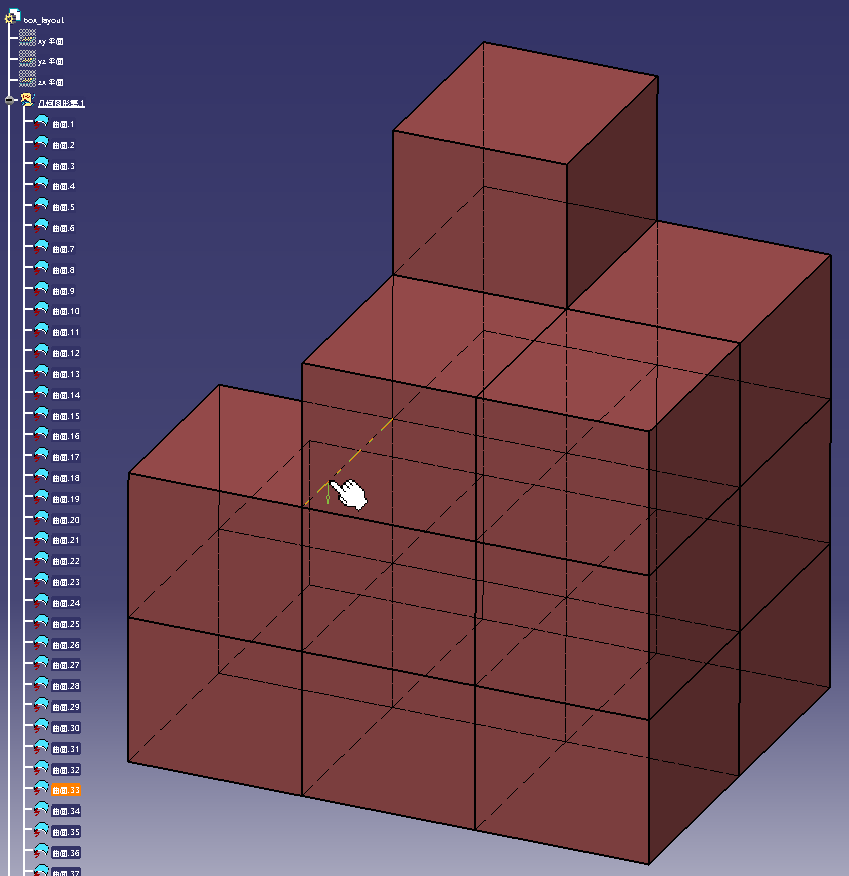
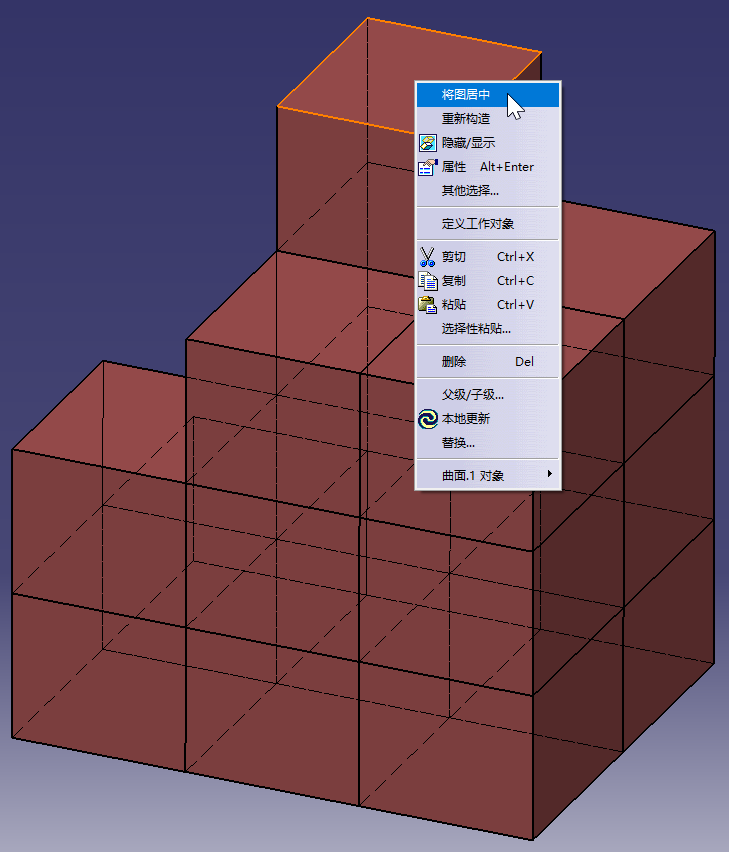
revise

diff --git a/chapters/章9-用CATIA创建参数化外表皮/练习1-使用Catia的基础命令.md b/chapters/章9-用CATIA创建参数化外表皮/练习1-使用Catia的基础命令.md
@@ -2,16 +2,16 @@
 
 ## 开始做
 
-### 1. 双击打开下载资源包中“章9-用CATIA创建参数化外表皮\练习1-使用Catia的基础命令”文件夹中的“box_layout.CATPart”文件。在视图中按下鼠标中键，上下左右移动鼠标，这样视图中的几何元素就以屏幕上的鼠标点为中心上下左右移动。
+### 1. 双击打开下载资源包中“章9-用CATIA创建参数化外表皮\练习1-使用Catia的基础命令”文件夹中的“box_layout.CATPart”文件。在视图中按住鼠标中键，上下左右移动鼠标，这样视图中的几何元素就以屏幕上的鼠标点为中心上下左右移动。
 ![](/images/用CATIA创建参数化外表皮/使用Catia的基础命令/1.平移缩放和旋转所有元素/1-1.png)
 ![](/images/用CATIA创建参数化外表皮/使用Catia的基础命令/1.平移缩放和旋转所有元素/1-2.png)
 
-#### 按下鼠标中键后，按下左键或左键后松开，上下移动鼠标，这样视图中的几何元素就以屏幕上的鼠标点为中心放大或缩小。
+#### 按住鼠标中键后，按下左键或左键后松开，上下移动鼠标，这样视图中的几何元素就以屏幕上的鼠标点为中心放大或缩小。
 ![](/images/用CATIA创建参数化外表皮/使用Catia的基础命令/1.平移缩放和旋转所有元素/1-3.png)
 ![](/images/用CATIA创建参数化外表皮/使用Catia的基础命令/1.平移缩放和旋转所有元素/1-4.png)
 ![](/images/用CATIA创建参数化外表皮/使用Catia的基础命令/1.平移缩放和旋转所有元素/1-5.png)
 
-#### 同时按下鼠标中键和左键或右键，并上下左右移动鼠标，这样视图中的几何元素就以屏幕上的鼠标点为中心进行旋转。
+#### 同时按住鼠标中键和左键或右键，并上下左右移动鼠标，这样视图中的几何元素就以屏幕上的鼠标点为中心进行旋转。
 ![](/images/用CATIA创建参数化外表皮/使用Catia的基础命令/1.平移缩放和旋转所有元素/1-6.png)
 ![](/images/用CATIA创建参数化外表皮/使用Catia的基础命令/1.平移缩放和旋转所有元素/1-7.png)
 
@@ -31,26 +31,32 @@
 ![](/images/用CATIA创建参数化外表皮/使用Catia的基础命令/2.多视窗特定视图显示和特定渲染模式/2-9.png)
 ![](/images/用CATIA创建参数化外表皮/使用Catia的基础命令/2.多视窗特定视图显示和特定渲染模式/2-10.png)
 
-### 3. 
+### 3. 单击结构树中的任意白色线框，视图中所有元素都变成暗色显示，并进入不可编辑的锁定状态。
 ![](/images/用CATIA创建参数化外表皮/使用Catia的基础命令/3.切换操作结构树或视图中所有几何元素/3-1.png)
 
-#### 
+####  按住鼠标中键后，按下左键或左键后松开，上下移动鼠标，这样结构树就会相应放大或缩小。
+![](/images/用CATIA创建参数化外表皮/使用Catia的基础命令/3.切换操作结构树或视图中所有几何元素/3-2.png)
 
+#### 在视图中任意位置按住鼠标中键，上下左右移动鼠标，这样结构树就会相应上下左右移动。
+![](/images/用CATIA创建参数化外表皮/使用Catia的基础命令/3.切换操作结构树或视图中所有几何元素/3-3.png)
 
-### 4. 
+### 4. 左击模型最上方的曲面，随后从右击后弹出的对话框中单击最上方的“将图居中”选项，结构树中的“曲面.1”自动调整显示在视图中的中心位置。
 ![](/images/用CATIA创建参数化外表皮/使用Catia的基础命令/4.选中元素的名称在结构树中居中显示/4-1.png)
+![](/images/用CATIA创建参数化外表皮/使用Catia的基础命令/4.选中元素的名称在结构树中居中显示/4-2.png)
 
-#### 
-
-
-### 5. 
+### 5. 将鼠标悬停于结构树中的“曲面.1”上使其高亮，随后从右击后弹出的对话框中单击“属性 Alt+Enter”选项，弹出“属性”的对话框，单击“特征属性”，把特征名称修改为“四层屋顶”，随后单击下方的“确定“选项。结构树中的“曲面.1”变成了“四层屋顶”。
 ![](/images/用CATIA创建参数化外表皮/使用Catia的基础命令/5.修改特定元素在结构树中的名称/5-1.png)
-
-#### 
-
+![](/images/用CATIA创建参数化外表皮/使用Catia的基础命令/5.修改特定元素在结构树中的名称/5-2.png)
+![](/images/用CATIA创建参数化外表皮/使用Catia的基础命令/5.修改特定元素在结构树中的名称/5-3.png)
 
 ### 6. 
 ![](/images/用CATIA创建参数化外表皮/使用Catia的基础命令/6.隐藏或显示特定元素/6-1.png)
+![](/images/用CATIA创建参数化外表皮/使用Catia的基础命令/6.隐藏或显示特定元素/6-2.png)
+![](/images/用CATIA创建参数化外表皮/使用Catia的基础命令/6.隐藏或显示特定元素/6-3.png)
+![](/images/用CATIA创建参数化外表皮/使用Catia的基础命令/6.隐藏或显示特定元素/6-4.png)
+![](/images/用CATIA创建参数化外表皮/使用Catia的基础命令/6.隐藏或显示特定元素/6-5.png)
+![](/images/用CATIA创建参数化外表皮/使用Catia的基础命令/6.隐藏或显示特定元素/6-6.png)
+![](/images/用CATIA创建参数化外表皮/使用Catia的基础命令/6.隐藏或显示特定元素/6-7.png)
 
 #### 
 
